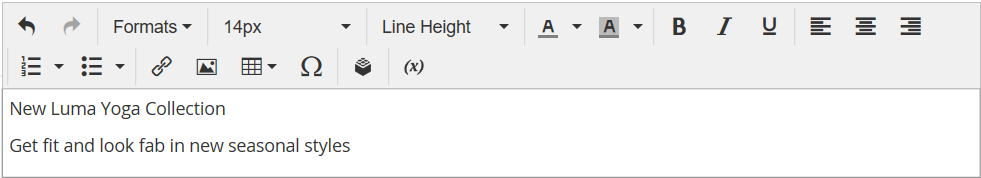
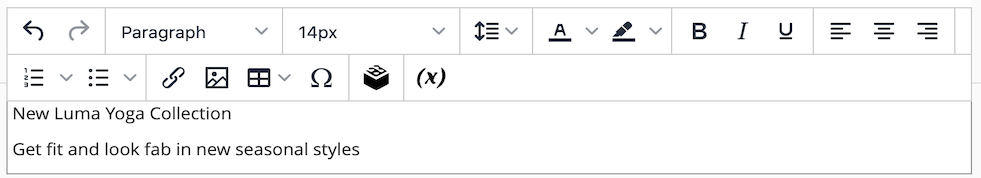
AC-238: Update Documentation

diff --git a/src/configuration/general/content-management.md b/src/configuration/general/content-management.md
@@ -12,7 +12,7 @@ Stores > Settings > [Configuration]({% link stores/configuration.md %}) > [Gene
 |Field|[Scope]({% link configuration/scope.md %})|Description|
 |--- |--- |--- |
 |Enable WYSIWYG Editor|Store View|Determines if the editor is enabled for the store. Options: Enabled by Default/Disabled by Default/Disabled Completely|
-|WYSIWYG Editor|Website|Determines the version of the TinyMCE editor that is used for the WYSIWYG editor. Options: <br/>**TinyMCE 4** - (Default) Uses the TinyMCE version 4.6 as the default WYSIWYG editor.|
+|WYSIWYG Editor|Website|Determines the version of the TinyMCE editor that is used for the WYSIWYG editor. Options: <br/>**TinyMCE 5** - (Default) Uses the TinyMCE version 5.8.1 as the default WYSIWYG editor.|
 |Use Static URLs for Media Content in WYSIWYG|Global|Determines if [static URLs]({% link catalog/catalog-urls-dynamic-media.md %}) are used for media content that is referenced from the WYSIWYG editor. The setting applies to all places where the WYSIWYG editor is available, including products, categories, pages, blocks, etc. Options: <br/>**Yes** - Uses static URLs for media content that is inserted with the WYSIWYG editor. Static URLs are absolute and break if the [base URL]({% link stores/store-urls.md %}) of the store changes. <br/>**No** (Default) - Uses dynamic URLs for media content that is inserted with the WYSIWYG editor, based on the  `{% raw %}{{media url="..."}}{% endraw %}` directive. Dynamic URLs are relative and do not break if the [base URL]({% link stores/store-urls.md %}) of the store changes.|
 
 {:.ee-only}

diff --git a/src/cms/editor-configure.md b/src/cms/editor-configure.md
@@ -4,7 +4,7 @@ title: Configuring the Editor
 
 The WYSIWYG editor is enabled by default, and can be used to edit content on CMS pages and blocks, and in products and categories. From the configuration you can activate or deactivate the editor, and elect to use static, rather than [dynamic]({% link catalog/catalog-urls-dynamic-media.md %}), [URLS]({% link catalog/catalog-urls.md %}) for media content in product and category descriptions.
 
-TinyMCE 4 is the default WYSIWYG editor. The implemented version, which is actually 4.6, offers an improved user experience and supports a wide range of WYSIWYG plugins. TinyMCE 3 was deprecated in the 2.4.0 release and is now removed in the 2.4.3 release.
+TinyMCE 5 is the default WYSIWYG editor. The implemented version, which is actually 5.8.1, offers an improved user experience and supports a wide range of WYSIWYG plugins. TinyMCE 3 was deprecated in the 2.4.0 release and is now removed in the 2.4.3 release. TinyMCE 4 is now removed in the 2.4.4 release.
 
 ![]({% link images/images/config-general-content-management-wysiwyg-options.png %}){: .zoom}
 [WYSIWYG Options]({% link configuration/general/content-management.md %})

diff --git a/src/cms/editor.md b/src/cms/editor.md
@@ -5,9 +5,9 @@ title: Using the Editor
 The editor gives you the ability to enter and format while working in a _What You See Is What You Get_ (WYSIWYG) view of the content. If you prefer to work directly with the underlying HTML code, you can easily change modes. The editor can be used to create content for [pages]({% link cms/pages.md %}), [blocks]({% link cms/blocks.md %}), and [product descriptions]({% link catalog/product-content.md %}). When working on product detail, access the editor by clicking <span class="btn">Show / Hide Editor</span>.
 
 {:.bs-callout-info}
-TinyMCE 4 is the default WYSIWYG editor. TinyMCE 3 was deprecated in the 2.4.0 release and is now removed in the 2.4.3 release.
+TinyMCE 5 is the default WYSIWYG editor. TinyMCE 3 was deprecated in the 2.4.0 release and is now removed in the 2.4.3 release. TinyMCE 4 is now removed in the 2.4.4 release.
 
-![Editor toolbar]({% link images/images/editor-toolbar-tm4/toolbar.png %}){: .zoom}
+![Editor toolbar]({% link images/images/editor-toolbar-tm5/toolbar.png %}){: .zoom}
 _WYSIWYG editor toolbar_
 
 The following topics provide detailed information about using the editor:

diff --git a/src/cms/page-builder-elements-text.md b/src/cms/page-builder-elements-text.md
@@ -14,7 +14,7 @@ _Formatted text on a banner_
 You can access the text editor directly from the stage or from a settings page. Changes made directly to the stage are saved automatically. For more information, see [Using the Editor]({% link cms/editor.md %}).
 
 ![]({% link images/images-ee/page-builder-elements-text-editor-tools.png %}){: .zoom}
-_Text editor tool - TinyMCE 4_
+_Text editor tool - TinyMCE 5_
 
 ## Text container toolbox
 
